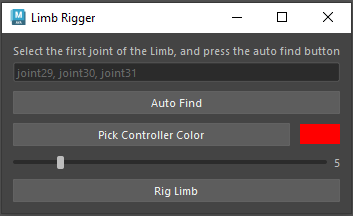
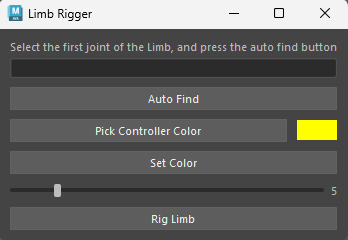
improved color controls

diff --git a/src/LimbRigger.py b/src/LimbRigger.py
@@ -150,6 +150,11 @@ class LimbRiggerWidget(MayaWindow):
         colorLayout.addWidget(self.colorSwatch)
         self.masterLayout.addLayout(colorLayout)
 
+        # Set Color Button
+        self.setColorButton = QPushButton("Set Color")
+        self.setColorButton.clicked.connect(self.SetColorToSelected)
+        self.masterLayout.addWidget(self.setColorButton)
+
         ctrlSizeSlider = QSlider()
         ctrlSizeSlider.setOrientation(Qt.Horizontal)
         ctrlSizeSlider.setRange(1, 30)
@@ -185,6 +190,18 @@ class LimbRiggerWidget(MayaWindow):
             b = color.blue() / 255.0
             self.rigger.controllerColor = (r, g, b)
             self.colorSwatch.setStyleSheet(f"background-color: rgb({color.red()}, {color.green()}, {color.blue()});")
+
+    def SetColorToSelected(self):
+        selection = mc.ls(sl=True)
+        if not selection:
+            QMessageBox.warning(self, "No Selection", "Please select a controller to apply the color.")
+            return
+
+        for obj in selection:
+            try:
+                self.rigger.ApplyColorOverride(obj)
+            except Exception as e:
+                QMessageBox.critical(self, "Error", f"Failed to apply color to {obj}.\n{e}")
 
 limbRiggerWidget = LimbRiggerWidget()
 limbRiggerWidget.show()
